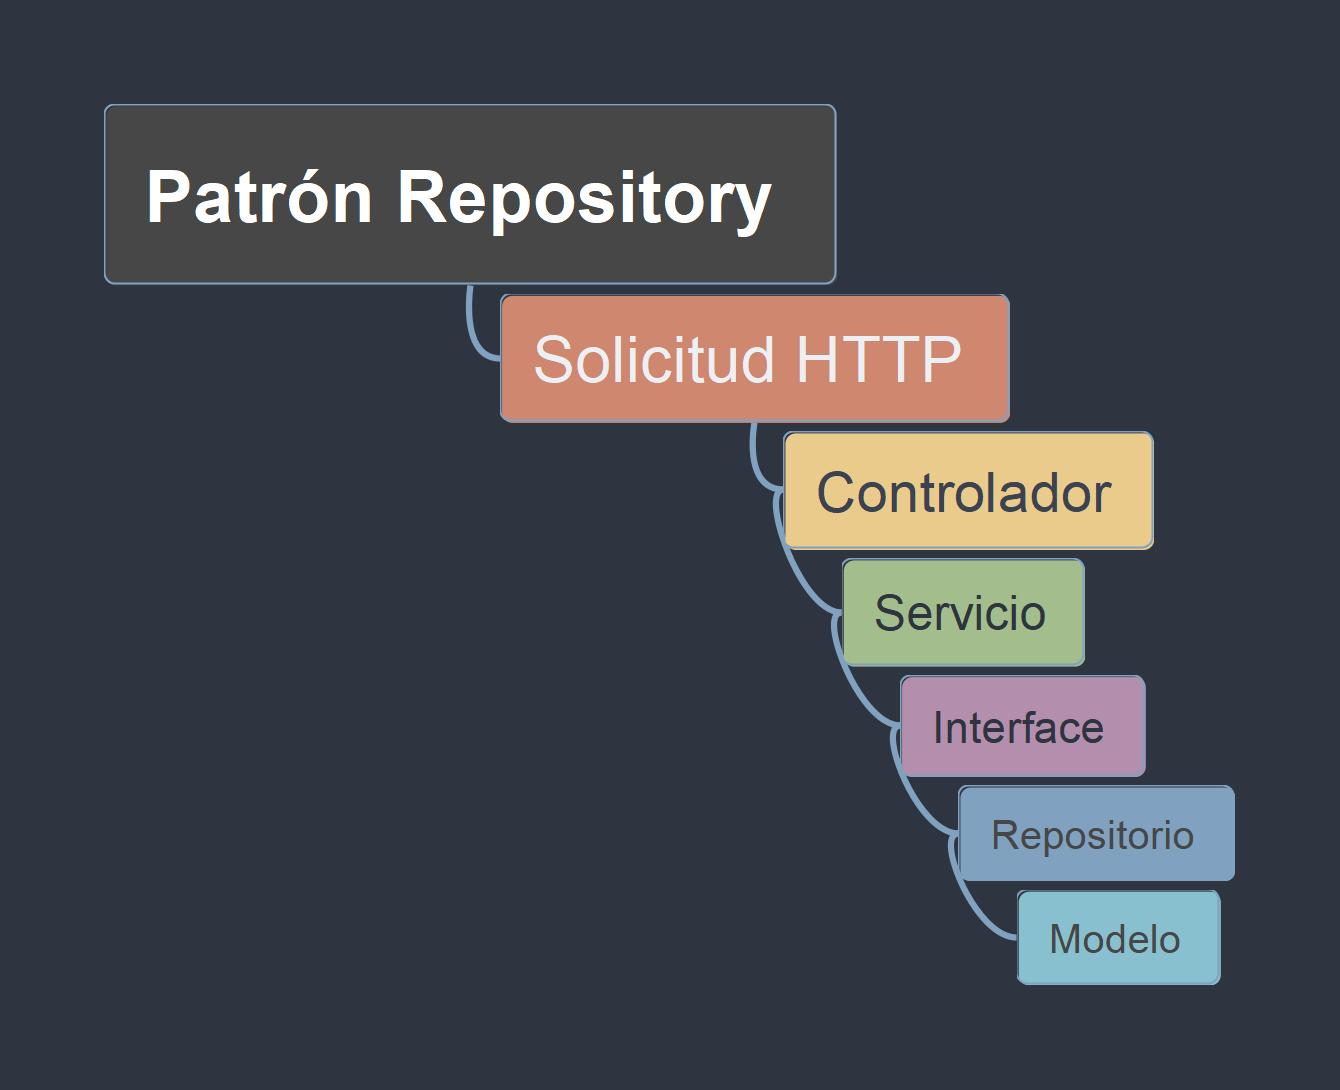
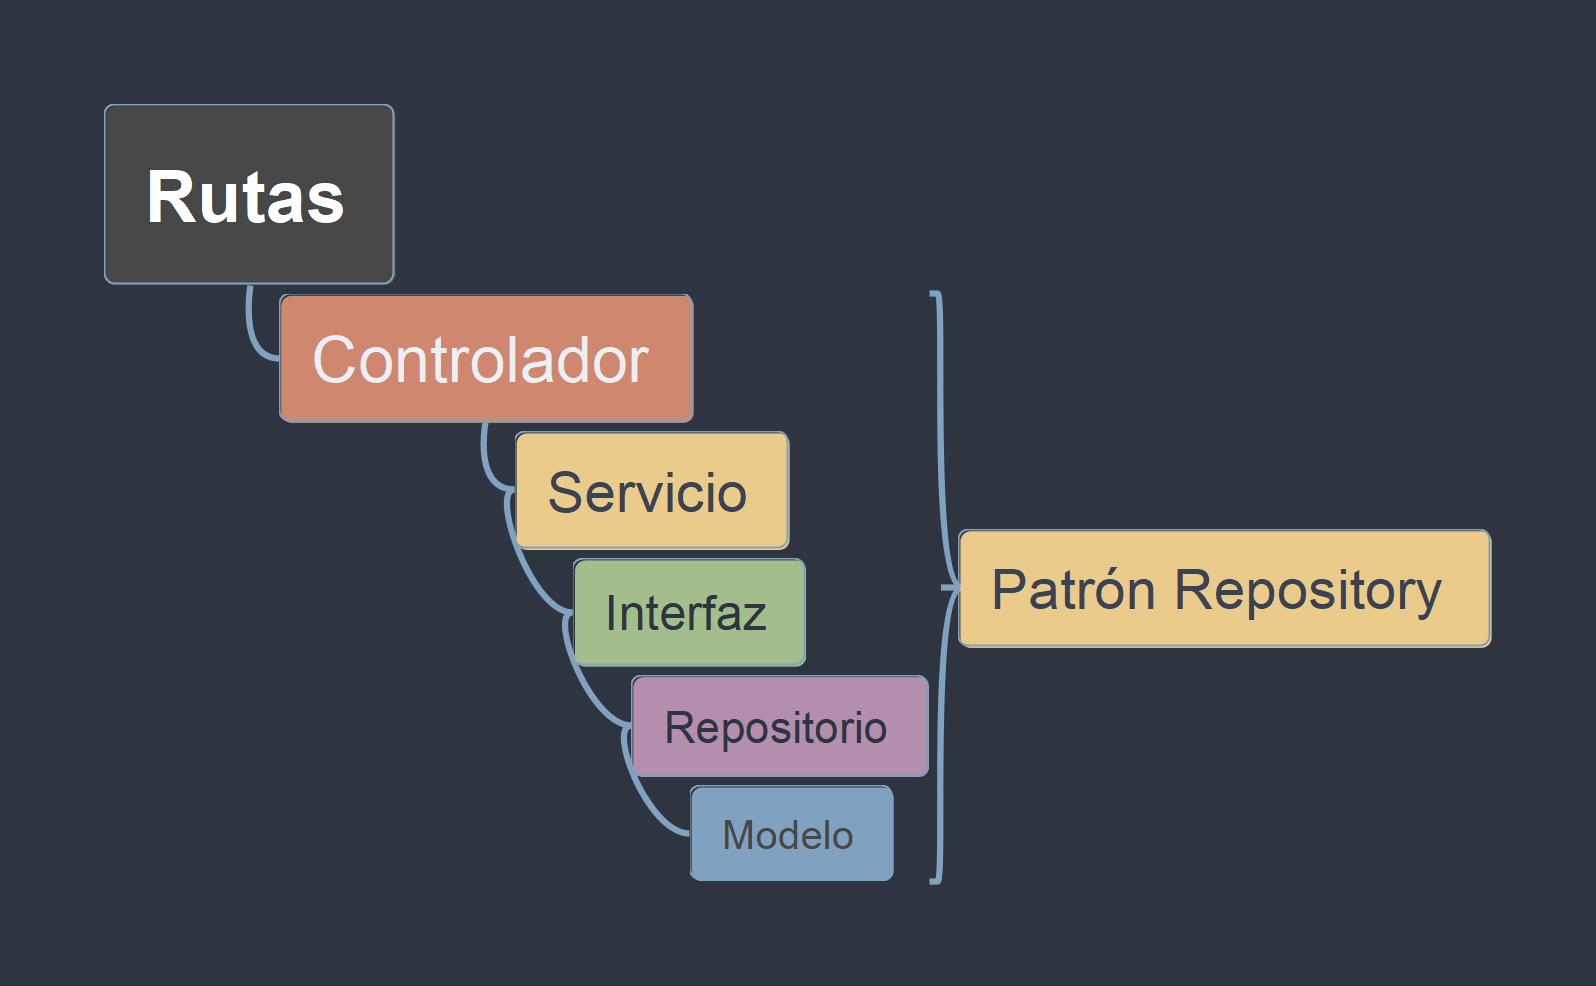
new changes

diff --git a/public/repository-pattern.mm b/public/repository-pattern.mm
@@ -1,7 +1,7 @@
 <map version="freeplane 1.11.5">
 <!--To view this file, download free mind mapping software Freeplane from https://www.freeplane.org -->
-<node TEXT="Patrón Repository" LOCALIZED_STYLE_REF="AutomaticLayout.level.root" FOLDED="false" ID="ID_1090958577" CREATED="1409300609620" MODIFIED="1722029334404" CHILD_NODES_LAYOUT="TOPTOBOTTOM_BOTHSIDES_BOTTOM"><hook NAME="MapStyle" background="#2e3440">
-    <properties show_icon_for_attributes="true" edgeColorConfiguration="#808080ff,#ff0000ff,#0000ffff,#00ff00ff,#ff00ffff,#00ffffff,#7c0000ff,#00007cff,#007c00ff,#7c007cff,#007c7cff,#7c7c00ff" show_note_icons="true" fit_to_viewport="false" associatedTemplateLocation="template:/dark_nord_template.mm"/>
+<node TEXT="Rutas" LOCALIZED_STYLE_REF="AutomaticLayout.level.root" FOLDED="false" ID="ID_1090958577" CREATED="1409300609620" MODIFIED="1722030304839" CHILD_NODES_LAYOUT="TOPTOBOTTOM_BOTHSIDES_BOTTOM"><hook NAME="MapStyle" background="#2e3440">
+    <properties show_icon_for_attributes="true" edgeColorConfiguration="#808080ff,#ff0000ff,#0000ffff,#00ff00ff,#ff00ffff,#00ffffff,#7c0000ff,#00007cff,#007c00ff,#7c007cff,#007c7cff,#7c7c00ff" show_note_icons="true" associatedTemplateLocation="template:/dark_nord_template.mm" fit_to_viewport="false"/>
 
 <map_styles>
 <stylenode LOCALIZED_TEXT="styles.root_node" STYLE="oval" UNIFORM_SHAPE="true" VGAP_QUANTITY="24 pt">
@@ -78,16 +78,22 @@
 </hook>
 <hook NAME="accessories/plugins/AutomaticLayout.properties" VALUE="ALL"/>
 <font BOLD="true"/>
-<node TEXT="Solicitud HTTP" POSITION="bottom_or_right" ID="ID_1540832079" CREATED="1722029403864" MODIFIED="1722029437894">
-<node TEXT="Controlador" ID="ID_655419420" CREATED="1722029442323" MODIFIED="1722029450843">
-<node TEXT="Servicio" ID="ID_1783471503" CREATED="1722029455098" MODIFIED="1722029462723">
-<node TEXT="Interface" ID="ID_687128160" CREATED="1722029467433" MODIFIED="1722029513013">
-<node TEXT="Repositorio" ID="ID_812541263" CREATED="1722029516063" MODIFIED="1722029522753">
-<node TEXT="Modelo" ID="ID_231666746" CREATED="1722029524873" MODIFIED="1722029529595"/>
+<node TEXT="" POSITION="bottom_or_right" ID="ID_429057505" CREATED="1722030352741" MODIFIED="1722030352741">
+<hook NAME="FirstGroupNode"/>
+</node>
+<node TEXT="Controlador" POSITION="bottom_or_right" ID="ID_1155205287" CREATED="1722030307309" MODIFIED="1722030311109">
+<node TEXT="Servicio" ID="ID_538564316" CREATED="1722030312799" MODIFIED="1722030317519">
+<node TEXT="Interfaz" ID="ID_1445253342" CREATED="1722030319212" MODIFIED="1722030326406">
+<node TEXT="Repositorio" ID="ID_530019598" CREATED="1722030330069" MODIFIED="1722030335779">
+<node TEXT="Modelo" ID="ID_988888086" CREATED="1722030340479" MODIFIED="1722030344889"/>
 </node>
 </node>
 </node>
 </node>
+<node TEXT="" POSITION="bottom_or_right" ID="ID_1005982485" CREATED="1722030352741" MODIFIED="1722030352741">
+<hook NAME="SummaryNode"/>
+<hook NAME="AlwaysUnfoldedNode"/>
+<node TEXT="Patrón Repository" ID="ID_1778867867" CREATED="1722030352741" MODIFIED="1722030368969"/>
 </node>
 </node>
 </map>
